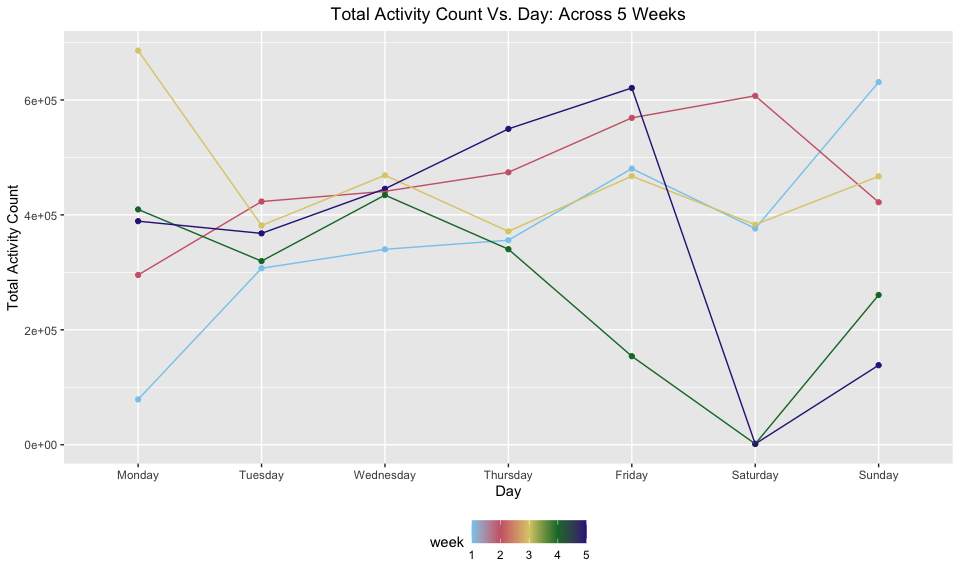
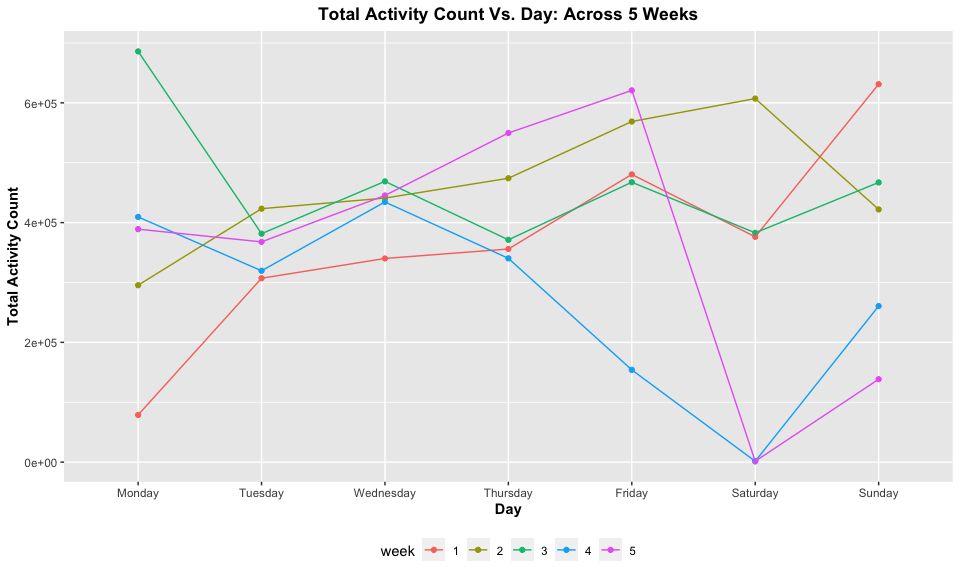
almost done!

diff --git a/p8105_hw3_td2749.md b/p8105_hw3_td2749.md
@@ -72,7 +72,7 @@ total_activity_table =
   group_by(week, day) %>% 
   summarize(total_activity_count) %>% 
   pivot_wider(names_from = day, values_from = total_activity_count) %>% 
-  knitr::kable(caption = "Daily Total Activity: Across 5 weeks")
+  knitr::kable(caption = "Daily Total Activity (as observed counts): Across 5 weeks")
 ```
 
     ## `summarise()` has grouped output by 'week'. You can override using the
@@ -90,19 +90,23 @@ total_activity_table
 |    4 | 409450.00 | 319568.0 |    434460 | 340291.0 | 154049.0 |     1440 | 260617 |
 |    5 | 389080.00 | 367824.0 |    445366 | 549658.0 | 620860.0 |     1440 | 138421 |
 
-Daily Total Activity: Across 5 weeks
+Daily Total Activity (as observed counts): Across 5 weeks
 
 ``` r
-accel_data %>%
-  ggplot(aes(x = day, y = total_activity_count, color = week, group = week)) +
-  geom_point() +
-  geom_line() +
-  scale_colour_gradientn(colours = c("#88CCEE", "#CC6677", "#DDCC77", "#117733", "#332288")) +
-  labs(title = "Total Activity Count Vs. Day: Across 5 Weeks",
+total_activity_plot = 
+  accel_data %>%
+    mutate(week = as.factor(week)) %>% 
+    ggplot(aes(x = day, y = total_activity_count, color = week, group = week)) +
+    geom_point() +
+    geom_line() +
+    labs(title = "Total Activity Count Vs. Day: Across 5 Weeks",
        x = "Day",
        y = "Total Activity Count") +
-  theme(plot.title = element_text(hjust = 0.5),
-        legend.position = "bottom")
+    theme(plot.title = element_text(hjust = 0.5, face = "bold"),
+          axis.title = element_text(face = "bold"),
+          legend.position = "bottom")
+
+total_activity_plot
 ```
 
 <img src="p8105_hw3_td2749_files/figure-gfm/Total Activity - Table and Graph-1.png" width="90%" />
@@ -123,11 +127,6 @@ some observed trends:
 -   Apart from week 4, Fridays seem to have consistently high total
     activities.
 
-NOTE: I’m aware that `week` is in continual format (by virtue of being
-made up of numeric values.) I tried converting it into character (to use
-it as a categorical variable) but that’s not letting me plot this graph.
-I will learn of a way to rectify this situation!
-
 **Task 2.3**: Accelerometer data allows the inspection activity over the
 course of the day. Make a single-panel plot that shows the 24-hour
 activity time courses for each day and use color to indicate day of the
@@ -135,23 +134,27 @@ week. Describe in words any patterns or conclusions you can make based
 on this graph.
 
 ``` r
-accel_data %>%
-  pivot_longer(activity_1:activity_1440, names_to = "minute_of_day", 
-               names_prefix = "activity_", values_to = "activity_count") %>% 
-  mutate(minute_of_day = as.numeric(minute_of_day)) %>% 
-  ggplot(aes(x = minute_of_day, y = activity_count, color = day)) +
-  geom_point(alpha = 0.5) +
-  scale_x_continuous(
-    breaks = c(360, 720, 1080, 1440), 
-    labels = c("6 AM", "12 PM", "6 PM", "12 AM")) +
-  labs(title = "Activity Count Vs. Hour",
-       x = "Hour",
-       y = "Activity Count",
-       caption = "Composite: Monday through Sunday; across 5 weeks") +
-  theme(plot.title = element_text(hjust = 0.5),
-        plot.caption = element_text(hjust = 0.5),
-        legend.position = "bottom") +
-  viridis::scale_color_viridis(name = "week", discrete = TRUE)
+over_the_day_plot = 
+  accel_data %>%
+    pivot_longer(activity_1:activity_1440, names_to = "minute_of_day", 
+                 names_prefix = "activity_", values_to = "activity_count") %>% 
+    mutate(minute_of_day = as.numeric(minute_of_day)) %>% 
+    ggplot(aes(x = minute_of_day, y = activity_count, color = day)) +
+    geom_point(alpha = 0.5) +
+    scale_x_continuous(
+      breaks = c(360, 720, 1080, 1440), 
+      labels = c("6 AM", "12 PM", "6 PM", "12 AM")) +
+    labs(title = "Activity Count Vs. Hour",
+         x = "Hour",
+         y = "Activity Count",
+         caption = "Composite: Monday through Sunday; across 5 weeks") +
+    theme(plot.title = element_text(hjust = 0.5, face = "bold"),
+          plot.caption = element_text(hjust = 0.5),
+          axis.title = element_text(face = "bold"),
+          legend.position = "bottom") +
+    viridis::scale_color_viridis(name = "week", discrete = TRUE)
+
+over_the_day_plot
 ```
 
 <img src="p8105_hw3_td2749_files/figure-gfm/24 Hour Plot-1.png" width="90%" />
@@ -248,38 +251,45 @@ be several reasons for this occurrence:
     it is reasonable to infer that there may be certain non-snowing days
     during the winter months.
 
+**Description of resultant `ny_noaa_df`**: … ADD!
+
 **Task 3.2**: Make a two-panel plot showing the average max temperature
 in January and in July in each station across years. Is there any
 observable / interpretable structure? Any outliers?
 
 ``` r
-ny_noaa_df %>%
-  group_by(id, year, month) %>%
-  filter(month %in% c(1, 7)) %>% 
-  summarize(mean_monthly_tmax = mean(tmax_c, na.rm = TRUE)) %>% 
-  mutate(
-    month = as.character(month),
-    month = recode(month, "1" = "January", "7" = "July")) %>% 
-  drop_na(mean_monthly_tmax) %>% 
-  ggplot(aes(x = year, y = mean_monthly_tmax, group = id, color = id)) + 
-    geom_point(alpha = .1) +
-    geom_line(alpha = .3) + 
-    scale_x_continuous(
-      breaks = c(1980, 1985, 1990, 1995, 2000, 2005, 2010)) +
-    facet_grid(. ~ month) +
-    labs(title = "Average Monthly Maximum Temperature (Jan and July) Vs. Year",
-       x = "Year",
-       y = "Average Maximum Temperature (in °C)",
-       caption = "Composite: 1980 through 2010; across unique weather stations") +
-    theme(
-      legend.position = "none",
-      plot.title = element_text(hjust = 0.5, face = "bold"),
-      plot.caption = element_text(hjust = 0.5),
-      axis.title = element_text(face = "bold"))
+avg_tmax_plot = 
+  ny_noaa_df %>%
+    group_by(id, year, month) %>%
+    filter(month %in% c(1, 7)) %>% 
+    summarize(mean_monthly_tmax = mean(tmax_c, na.rm = TRUE)) %>% 
+    mutate(
+      month = as.character(month),
+      month = recode(month, "1" = "January", "7" = "July")) %>% 
+    drop_na(mean_monthly_tmax) %>% 
+    ggplot(aes(x = year, y = mean_monthly_tmax, group = id, color = id)) + 
+      geom_point(alpha = .1) +
+      geom_line(alpha = .3) + 
+      scale_x_continuous(
+        breaks = c(1980, 1985, 1990, 1995, 2000, 2005, 2010)) +
+      facet_grid(. ~ month) +
+      labs(title = "Average Monthly Maximum Temperature (Jan and July) Vs. Year",
+         x = "Year",
+         y = "Average Maximum Temperature (in °C)",
+         caption = "Composite: 1980 through 2010; across unique weather stations") +
+      theme(
+        legend.position = "none",
+        plot.title = element_text(hjust = 0.5, face = "bold"),
+        plot.caption = element_text(hjust = 0.5),
+        axis.title = element_text(face = "bold"))
 ```
 
     ## `summarise()` has grouped output by 'id', 'year'. You can override using the
     ## `.groups` argument.
+
+``` r
+avg_tmax_plot
+```
 
 <img src="p8105_hw3_td2749_files/figure-gfm/ny_noaa avg.tmax jan and july-1.png" width="90%" />
 **Description**: ADD! … … … … … … … …
